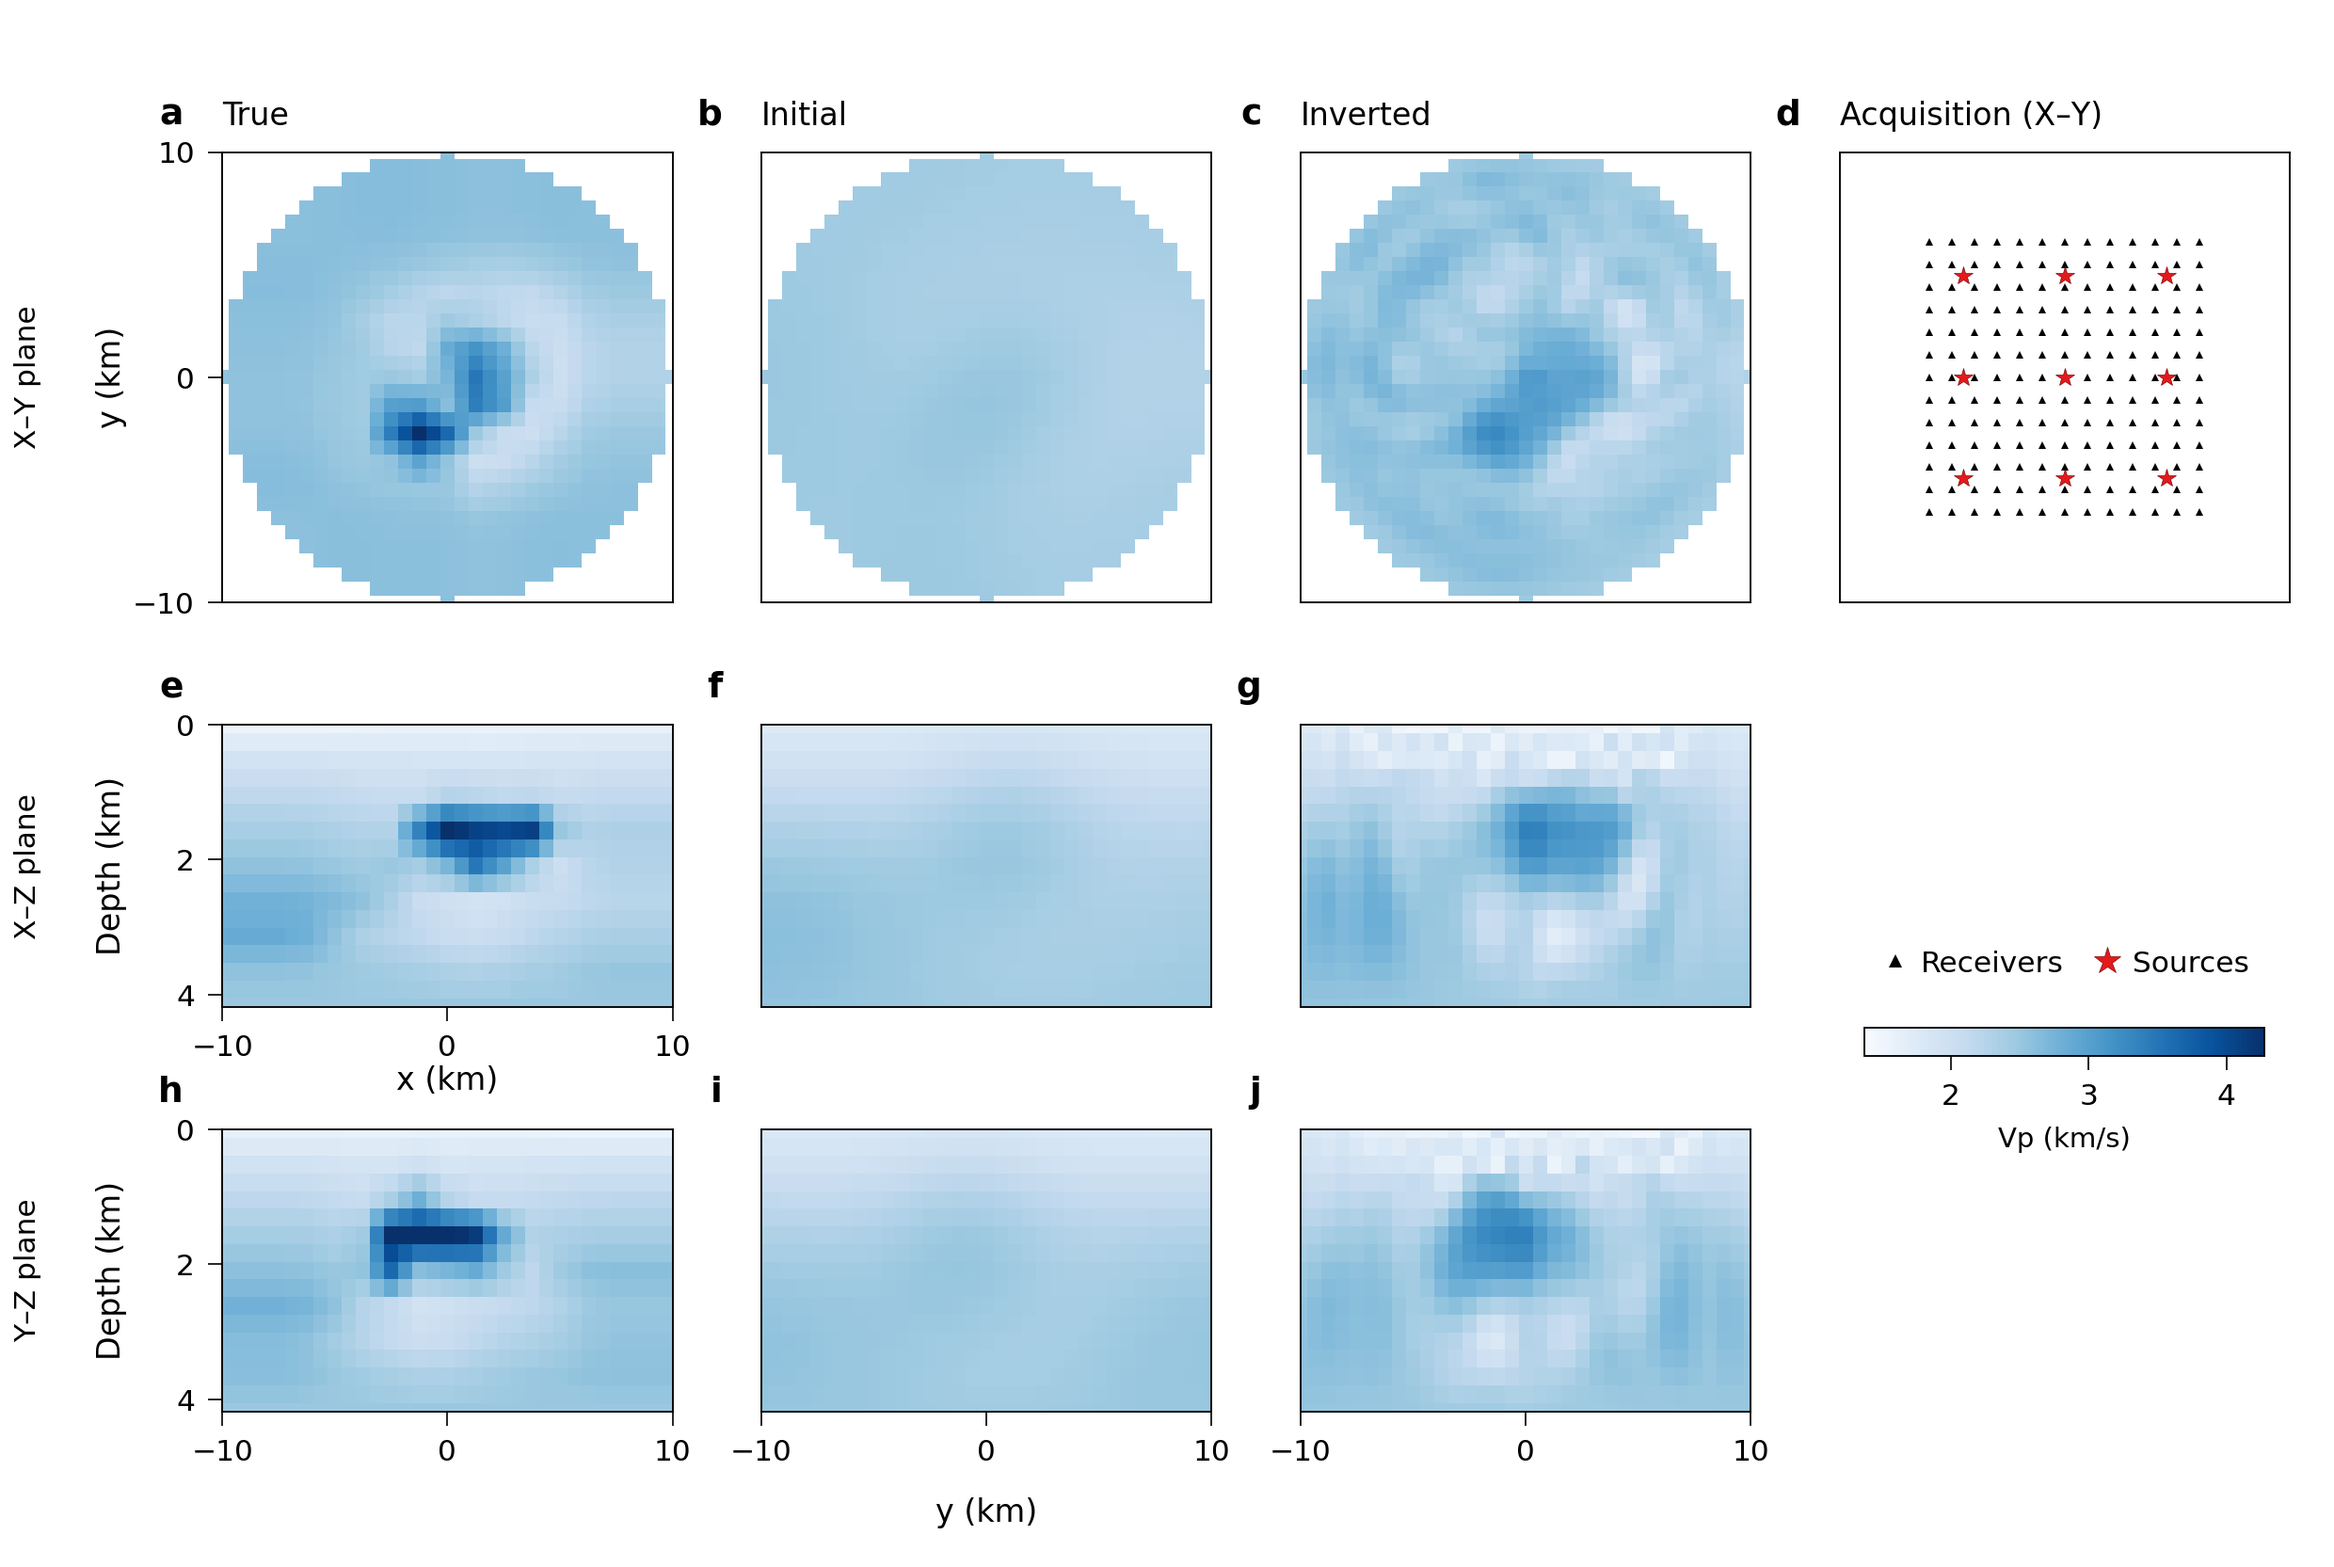
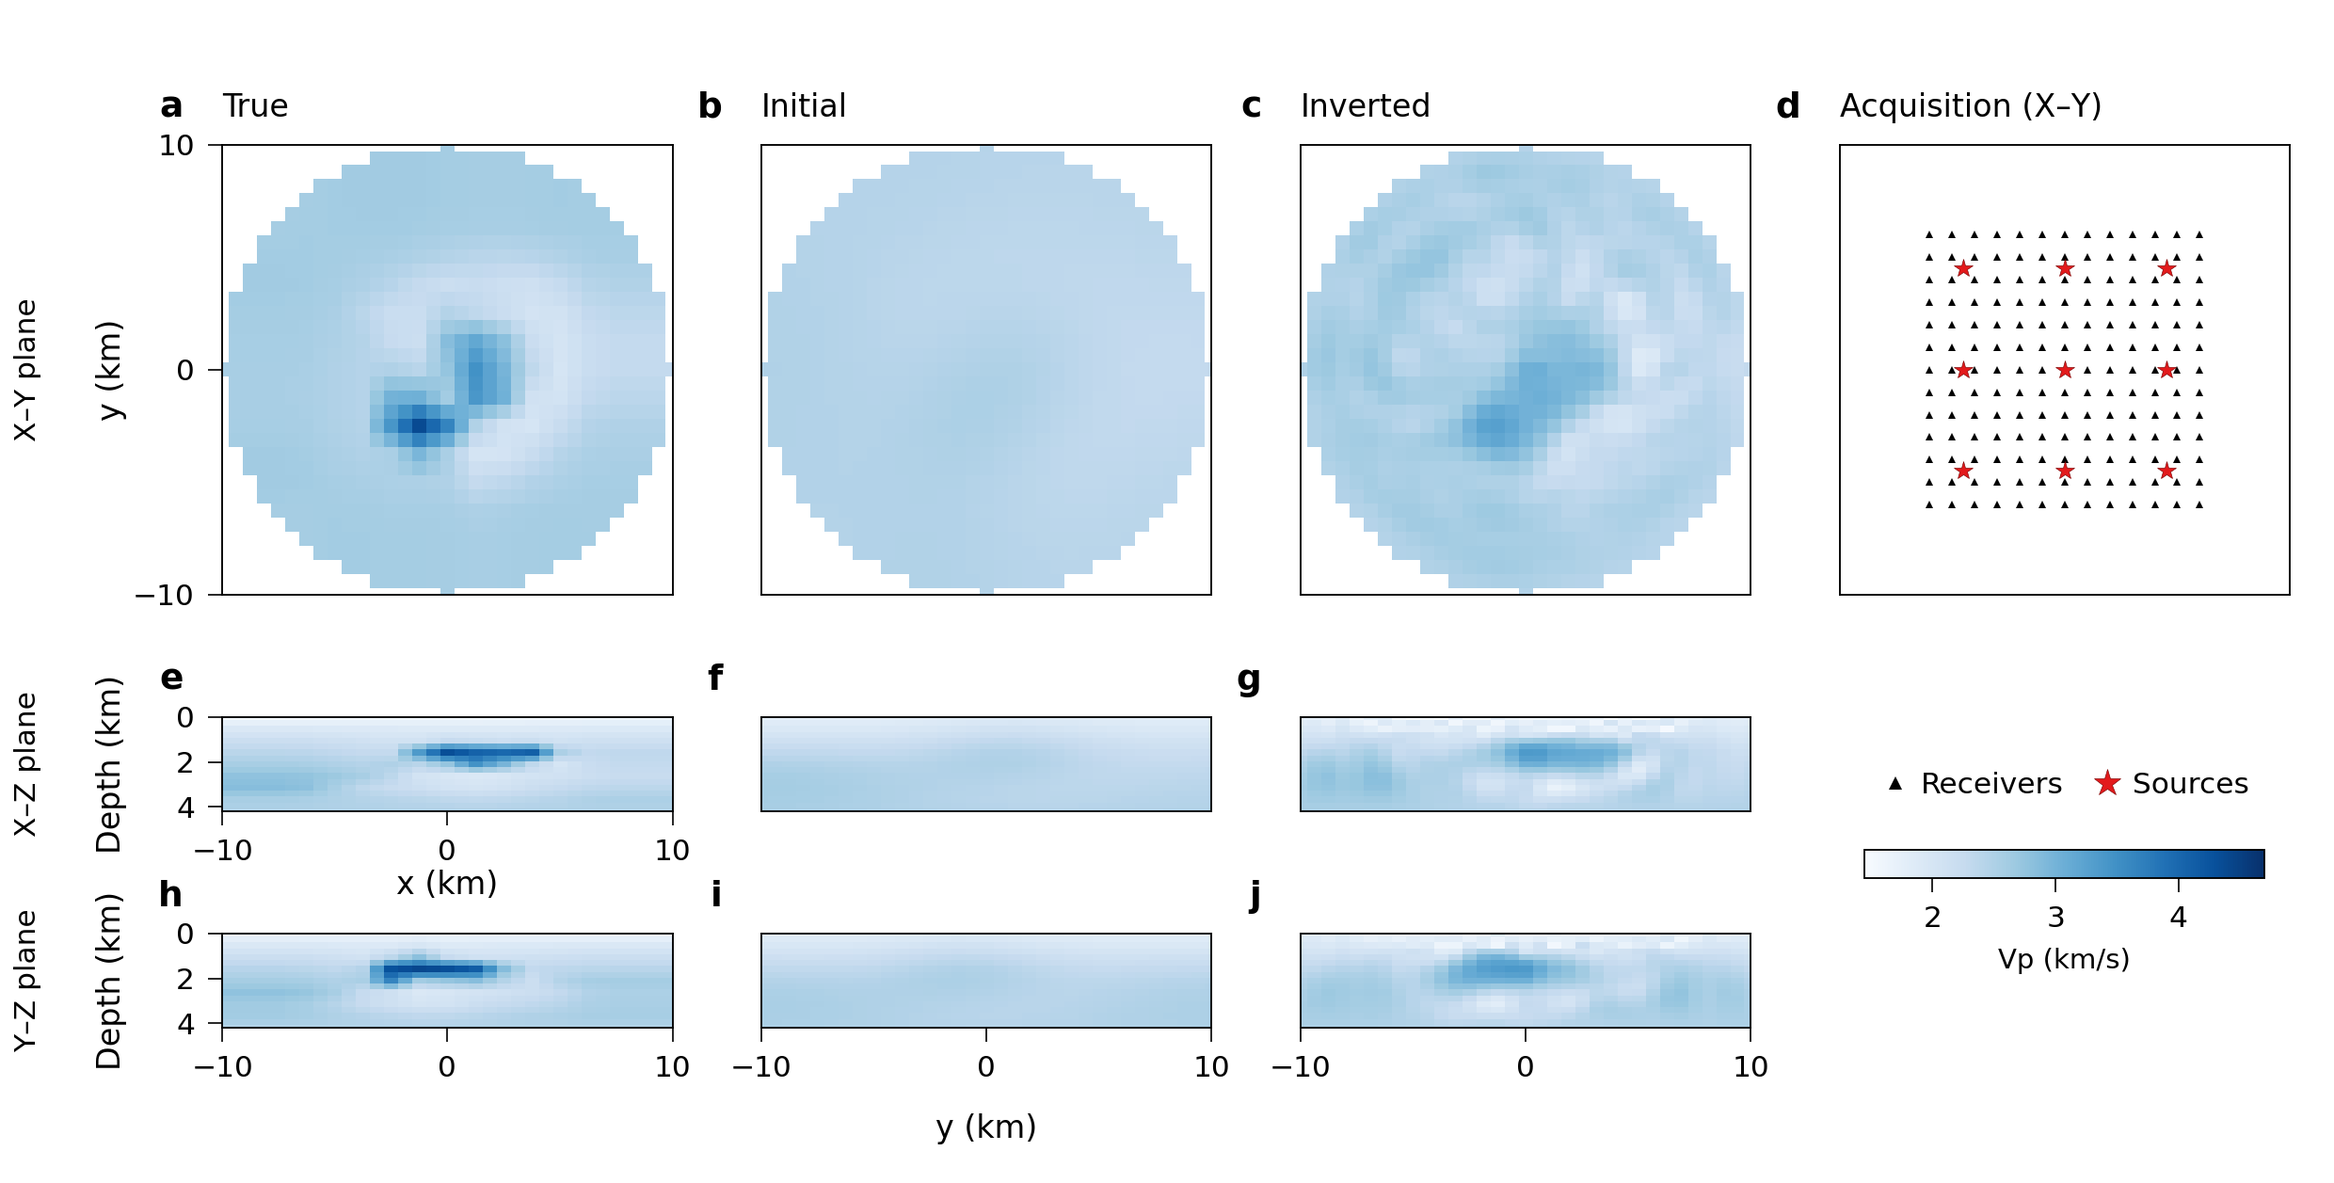
Plot salt recovery at true aspect over the simulated volume range

diff --git a/docs/example/model-recovery.html b/docs/example/model-recovery.html
@@ -6,8 +6,9 @@ h1{font-size:1.55rem;margin-bottom:0}p{margin:.3em 0 1em}img{width:100%;height:a
 figure{margin:1.3em 0}figcaption{font-size:.9rem;color:#455567}h2{font-size:1.1rem}</style>
 <main><h1>Salt-model recovery</h1><p>DiffAxiSEM3D-native · 125 accepted updates</p>
 <figure><img src="models.png" alt="True, initial and inverted Vp in three central slices, with acquisition geometry">
-<figcaption>Horizontal slice at 2.09 km depth. Vertical slices at y = 0 and x = 0 use
-3× vertical exaggeration. All panels share a 1.3775–4.277 km/s scale.
+<figcaption>Central horizontal slice at 2.09 km depth and vertical slices at y = 0 km
+and x = 0 km. Horizontal and vertical distances use the same scale. All panels use the full Vp
+range of the three model volumes inside the simulated cylinder (1.45–4.7 km/s).
 The resampled SEG/EAGE salt model is © 1997 Society of Exploration Geophysicists
 (<a href="https://creativecommons.org/licenses/by/4.0/">CC BY 4.0</a>).</figcaption></figure>
 <h2>Loss</h2><img src="loss.png" alt="Mean full-shot loss from the initial model through the last accepted update">

diff --git a/diffaxisem3d/plotting.py b/diffaxisem3d/plotting.py
@@ -12,24 +12,42 @@ import numpy as np
 from matplotlib.lines import Line2D
 
 
+MODEL_NAMES = ("true", "initial", "inverted")
+
+
 def cell_bounds(coords):
     return coords[0] - (coords[1] - coords[0]) / 2, coords[-1] + (coords[-1] - coords[-2]) / 2
+
+
+def shared_vp_norm(data):
+    mask = data["display_mask"]
+    if mask.dtype != bool or not np.any(mask):
+        raise ValueError("Expected a nonempty boolean simulation-domain mask.")
+    limits = []
+    for name in MODEL_NAMES:
+        vp = data[name][mask] / 1000
+        if not np.isfinite(vp).all():
+            raise ValueError(f"Nonfinite {name} Vp inside the simulated domain.")
+        limits.append((vp.min(), vp.max()))
+    return matplotlib.colors.Normalize(min(low for low, _ in limits), max(high for _, high in limits))
 
 
 def model_figure(data, acquisition):
     x, y, z = (data[key] / 1000 for key in ("x", "y", "depth"))
     mask = data["display_mask"]
-    width, height = 210, 141
+    size, gap, left = 40.5, 8, 20
+    xy_height = size * np.ptp(y) / np.ptp(x)
+    xz_height = size * np.ptp(z) / np.ptp(x)
+    yz_height = size * np.ptp(z) / np.ptp(y)
+    rows = [(36 + xz_height + yz_height, xy_height), (25 + yz_height, xz_height), (14, yz_height)]
+    width, height = 210, rows[0][0] + xy_height + 13
     fig = plt.figure(figsize=(width / 25.4, height / 25.4))
 
     def panel(left, bottom, w, h):
         return fig.add_axes([left / width, bottom / height, w / width, h / height])
 
     cmap = "Blues"
-    norm = matplotlib.colors.Normalize(1.3775, 4.277)
-    size, gap, left = 40.5, 8, 20
-    section = 3 * size * np.ptp(z) / np.ptp(x)
-    rows = [(36 + 2 * section, size), (25 + section, section), (14, section)]
+    norm = shared_vp_norm(data)
     planes = ("X–Y plane", "X–Z plane", "Y–Z plane")
     vertical = (y, z, z)
     horizontal = (x, x, y)
@@ -41,15 +59,17 @@ def model_figure(data, acquisition):
 
     for row, (bottom, h) in enumerate(rows):
         u, v = horizontal[row], vertical[row]
-        for col, name in enumerate(("true", "initial", "inverted")):
+        for col, name in enumerate(MODEL_NAMES):
             ax = panel(left + col * (size + gap), bottom, size, h)
             cut = sections[row]
             values = np.ma.array(data[name][cut].T / 1000, mask=~mask[cut].T)
             ax.imshow(values, cmap=cmap, norm=norm, interpolation="nearest", origin="lower",
-                      extent=(*cell_bounds(u), *cell_bounds(v)), aspect="auto")
+                      extent=(*cell_bounds(u), *cell_bounds(v)), aspect="equal")
             ax.set(xlim=(u[0], u[-1]), ylim=(v[0], v[-1]) if row == 0 else (v[-1], v[0]))
-            ax.set_xticks([-10, 0, 10] if row == 2 or (row == 1 and col == 0) else [])
-            ax.set_yticks(([-10, 0, 10] if row == 0 else [0, 2, 4]) if col == 0 else [])
+            for axis in (ax.xaxis, ax.yaxis):
+                axis.set_major_locator(matplotlib.ticker.MaxNLocator(nbins=3, steps=[1, 2, 5, 10]))
+            ax.xaxis.set_visible(row == 2 or (row == 1 and col == 0))
+            ax.yaxis.set_visible(col == 0)
             if row == 0:
                 ax.set_title(name.capitalize(), loc="left", pad=7)
             if row == 1 and col == 0:
@@ -63,8 +83,8 @@ def model_figure(data, acquisition):
             panel_letter(ax, ("abc", "efg", "hij")[row][col])
 
     right = left + 3 * (size + gap)
-    ax = panel(right, rows[0][0], size, size)
-    ax.set(xlim=(x[0], x[-1]), ylim=(y[0], y[-1]), xticks=[], yticks=[])
+    ax = panel(right, rows[0][0], size, xy_height)
+    ax.set(xlim=(x[0], x[-1]), ylim=(y[0], y[-1]), xticks=[], yticks=[], aspect="equal")
     ax.set_title("Acquisition (X–Y)", loc="left", pad=7)
     grid = acquisition["receiver_grid"]
     rx, ry = np.meshgrid(np.asarray(grid["x_m"]) / 1000, np.asarray(grid["y_m"]) / 1000)
@@ -77,11 +97,12 @@ def model_figure(data, acquisition):
     panel_letter(ax, "d")
     fig.legend([Line2D([], [], markersize=3.5, **receivers), Line2D([], [], markersize=7, **shots)],
                ["Receivers", "Sources"], ncol=2, frameon=False, loc="lower center",
-               bbox_to_anchor=((right + size / 2) / width, 52 / height), borderaxespad=0,
+               bbox_to_anchor=((right + size / 2) / width, rows[1][0] / height), borderaxespad=0,
                handlelength=1, handletextpad=.35, columnspacing=1, fontsize=7.5)
-    color_axis = panel(right + (size - 36) / 2, 46, 36, 2.5)
+    color_axis = panel(right + (size - 36) / 2, rows[1][0] - 6, 36, 2.5)
     cb = fig.colorbar(matplotlib.cm.ScalarMappable(norm=norm, cmap=cmap), cax=color_axis,
-                      orientation="horizontal", ticks=[2, 3, 4])
+                      orientation="horizontal",
+                      ticks=matplotlib.ticker.MaxNLocator(nbins=4, steps=[1, 2, 5, 10]))
     cb.set_label("Vp (km/s)", fontsize=7)
     fig.text((left + 1.5 * size + gap) / width, 3.5 / height, "y (km)", ha="center", va="bottom")
     return fig
@@ -115,10 +136,13 @@ def render(models_path, output_dir):
         loss = data["loss"]
         if loss.shape != (updates + 1,) or not np.all(np.isfinite(loss)):
             raise ValueError("Expected one finite loss for the initial model and each accepted update.")
+        x_mid, y_mid, z_mid = (data[key][len(data[key]) // 2] / 1000 for key in ("x", "y", "depth"))
         with plt.rc_context({"font.family": "DejaVu Sans", "font.size": 8, "axes.titlesize": 8,
                              "xtick.labelsize": 7.5, "ytick.labelsize": 7.5, "axes.linewidth": .45,
                              "xtick.major.width": .4, "ytick.major.width": .4, "pdf.fonttype": 42}):
-            for name, fig in (("models", model_figure(data, acquisition)), ("loss", loss_figure(loss))):
+            model_plot = model_figure(data, acquisition)
+            low, high = model_plot.axes[0].images[0].get_clim()
+            for name, fig in (("models", model_plot), ("loss", loss_figure(loss))):
                 credit = {"Description": "Resampled SEG/EAGE salt model, copyright 1997 Society of "
                           "Exploration Geophysicists, https://creativecommons.org/licenses/by/4.0/"}
                 fig.savefig(output / f"{name}.png", dpi=300, facecolor="white",
@@ -134,8 +158,9 @@ h1{{font-size:1.55rem;margin-bottom:0}}p{{margin:.3em 0 1em}}img{{width:100%;hei
 figure{{margin:1.3em 0}}figcaption{{font-size:.9rem;color:#455567}}h2{{font-size:1.1rem}}</style>
 <main><h1>Salt-model recovery</h1><p>DiffAxiSEM3D-native · {updates} accepted updates</p>
 <figure><img src="models.png" alt="True, initial and inverted Vp in three central slices, with acquisition geometry">
-<figcaption>Horizontal slice at 2.09 km depth. Vertical slices at y = 0 and x = 0 use
-3× vertical exaggeration. All panels share a 1.3775–4.277 km/s scale.
+<figcaption>Central horizontal slice at {z_mid:g} km depth and vertical slices at y = {y_mid:g} km
+and x = {x_mid:g} km. Horizontal and vertical distances use the same scale. All panels use the full Vp
+range of the three model volumes inside the simulated cylinder ({low:g}–{high:g} km/s).
 The resampled SEG/EAGE salt model is © 1997 Society of Exploration Geophysicists
 (<a href="https://creativecommons.org/licenses/by/4.0/">CC BY 4.0</a>).</figcaption></figure>
 <h2>Loss</h2><img src="loss.png" alt="Mean full-shot loss from the initial model through the last accepted update">

diff --git a/tests/test_plotting.py b/tests/test_plotting.py
@@ -1,0 +1,35 @@
+import unittest
+
+import numpy as np
+
+from diffaxisem3d.plotting import model_figure
+from matplotlib import pyplot as plt
+
+
+class RecoveryPlotTests(unittest.TestCase):
+    def test_sections_share_the_full_in_domain_range(self):
+        coordinates = np.arange(-2, 3) * 1000.0
+        shape = (5, 5, 5)
+        mask = np.ones(shape, dtype=bool)
+        mask[0, 0, :] = False
+        data = dict(x=coordinates, y=coordinates, depth=np.arange(5) * 250.0, display_mask=mask)
+        for key in ("true", "initial", "inverted"):
+            data[key] = np.full(shape, 2000.0)
+        data["true"][~mask] = 9000.0
+        data["initial"][1, 1, 0] = 1000.0
+        data["inverted"][3, 3, 4] = 6500.0
+        acquisition = {
+            "receiver_grid": {"x_m": [0.0], "y_m": [0.0]},
+            "sources": [{"xyz_depth_m": [0.0, 0.0, 0.0]}],
+        }
+
+        figure = model_figure(data, acquisition)
+        self.addCleanup(plt.close, figure)
+        figure.canvas.draw()
+        images = [image for ax in figure.axes for image in ax.images]
+        self.assertEqual(len(images), 9)
+        for image in images:
+            self.assertEqual(image.get_clim(), (1.0, 6.5))
+            np.testing.assert_array_equal(np.unique(image.get_array().compressed()), [2.0])
+            transform = image.axes.transData.get_affine().get_matrix()
+            self.assertAlmostEqual(abs(transform[0, 0]), abs(transform[1, 1]))

diff --git a/diffaxisem3d/invert.py b/diffaxisem3d/invert.py
@@ -21,7 +21,7 @@ import numpy as np
 from scipy.ndimage import gaussian_filter
 import torch
 
-from .case import CASE, load_case
+from .case import CASE, load_case, simulation_mask
 from .native import NativeSolver
 from .objective import SoftDTW, TensorMisfit
 from .plotting import render
@@ -215,14 +215,13 @@ def run(args, parser):
             fingerprint.hexdigest(),
         )
     path = args.output / "models.npz"
-    inside = fields["x"][:, None, None] ** 2 + fields["y"][None, :, None] ** 2 <= 1e8
     np.savez_compressed(
         path,
         **{k: fields[k] for k in ("x", "y", "depth", "true", "initial")},
         inverted=model,
         loss=loss,
         accepted_update=len(loss) - 1,
-        display_mask=np.broadcast_to(inside, model.shape),
+        display_mask=simulation_mask(fields),
     )
     render(path, args.output)
     print(args.output / "model-recovery.html")

diff --git a/diffaxisem3d/case.py b/diffaxisem3d/case.py
@@ -21,6 +21,16 @@ def load_case():
     return case, fields
 
 
+def simulation_mask(fields):
+    """Select control points inside the cylindrical salt mesh."""
+    with netCDF4.Dataset(CASE / "input" / "mesh.e") as mesh:
+        radius = float(np.max(mesh.variables["coordx"][:]))
+        mesh_depth = float(np.ptp(mesh.variables["coordy"][:]))
+    in_disk = fields["x"][:, None, None] ** 2 + fields["y"][None, :, None] ** 2 <= radius**2
+    depth = fields["depth"][None, None, :]
+    return in_disk & (depth >= 0) & (depth <= mesh_depth)
+
+
 def write_material(path, fields, vp):
     axes = ("x", "y", "depth")
     with netCDF4.Dataset(path, "w", format="NETCDF3_64BIT_OFFSET") as nc:

diff --git a/README.md b/README.md
@@ -1,11 +1,11 @@
 # DiffAxiSEM3D-native
 
-DiffAxiSEM3D-native is the 3D inversion software we distribute alongside the
-`differentiate-seismic-solver` skill. Run the salt inversion below or supply
-your own waveform misfit. PyTorch computes the adjoint source from receiver
-traces. The native AxiSEM3D C++/MPI solver propagates the forward and adjoint
-wavefields to compute the Vp gradient.
-[SKILL](https://github.com/Wangxi404/differentiate-seismic-solver) ·
+We developed DiffAxiSEM3D-native with SeismicDiffSkill, a reusable Agent Skill
+for adapting seismic solvers for differentiable inversion. Run the salt
+inversion below or supply your own waveform misfit. PyTorch computes the
+adjoint source from receiver traces. The native AxiSEM3D C++/MPI solver
+propagates the forward and adjoint wavefields to compute the Vp gradient.
+[Agent Skill](https://github.com/Wangxi404/differentiate-seismic-solver) ·
 [Upstream AxiSEM3D](https://github.com/AxiSEMunity/AxiSEM3D)
 
 ## SEG/EAGE 3D salt inversion
@@ -14,6 +14,7 @@ This **float64, 3D isotropic elastic** simulation propagates P and S waves.
 Each update uses all 9 shots at the same model, with radial, azimuthal and
 vertical displacement recorded at 169 receivers. We invert Vp on a 33 × 33 × 17
 grid from a Gaussian-smoothed initial model, holding Vs and density fixed.
+The optimizer constrains Vp to 1.45–4.70 km/s.
 
 After 125 updates, the **debiased soft-DTW divergence** (float64, γ = 0.1)
 fell from **0.00304 to 0.000423**. Vp RMSE within the simulated cylinder
